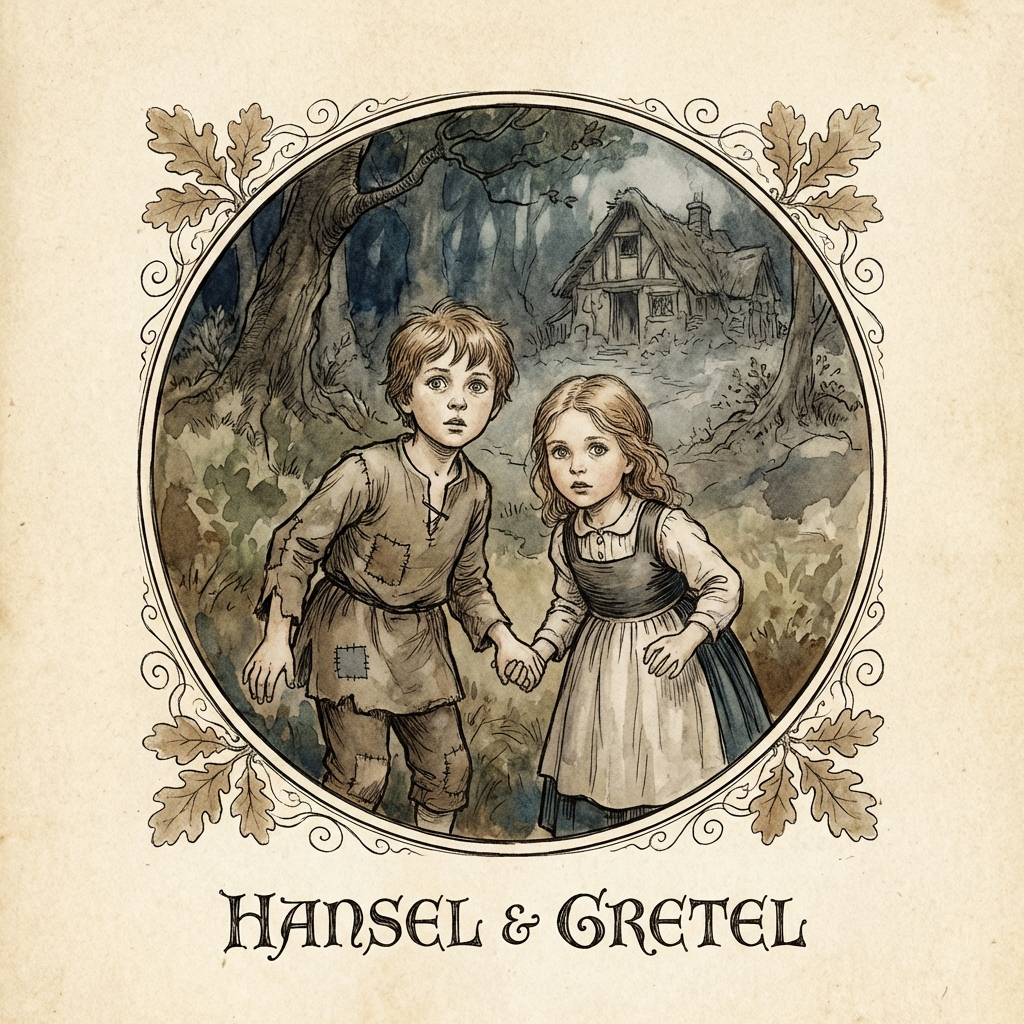
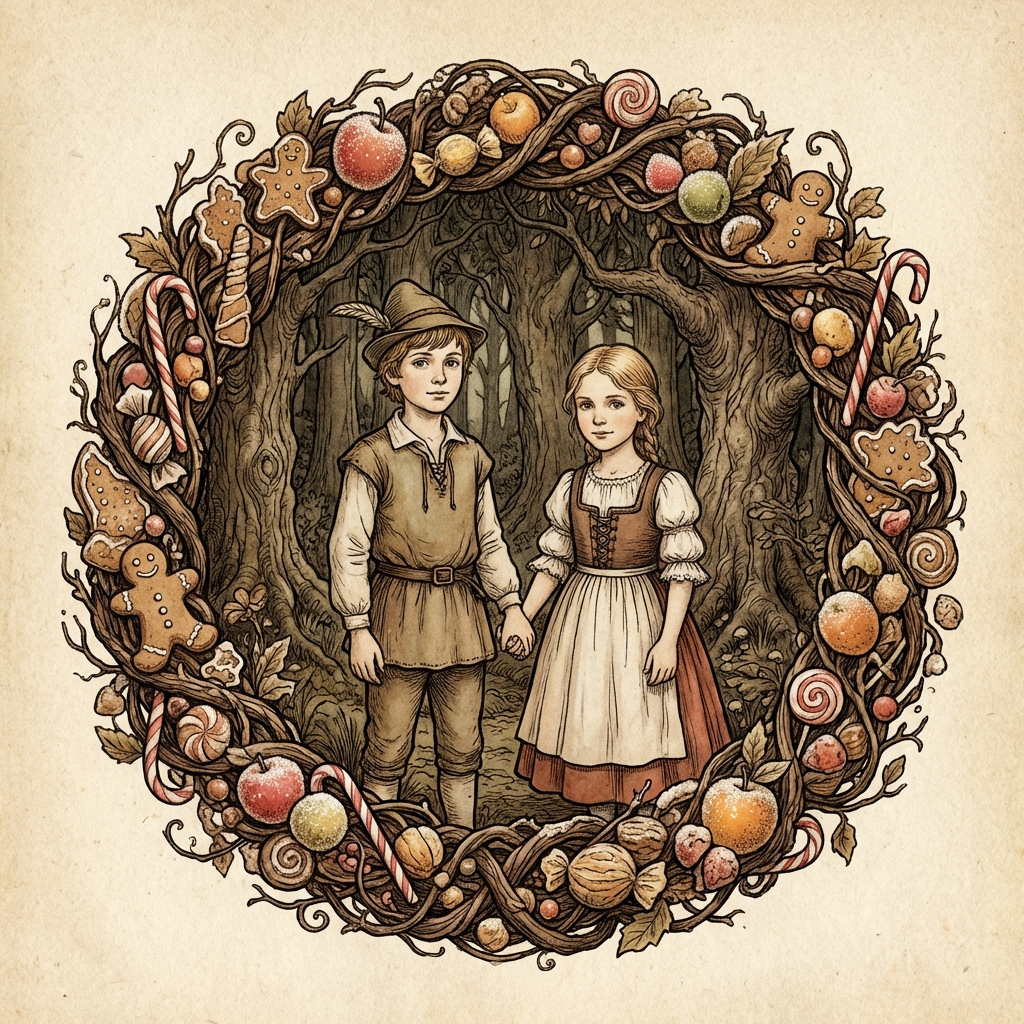
Bump version to 1.1.14 - Unified ornate illustrations for story characters

diff --git a/web/src/components/resources/storyteller/books-data.ts b/web/src/components/resources/storyteller/books-data.ts
@@ -154,8 +154,8 @@ export const BOOKS: Book[] = [
         description: 'La valiente historia del pequeño Pulgarcito, quien con su ingenio y unas botas mágicas salva a sus siete hermanos de un temible ogro.',
         level: 'Medio',
         age: '6+',
-        coverImage: '/images/storyteller/pulgarcito-clasico.png',
-        chipImage: '/images/storyteller/pulgarcito-clasico.png',
+        coverImage: '/images/storyteller/hansel-gretel-bruja.jpg',
+        chipImage: '/images/storyteller/character-pulgarcito.png',
         genre: 'Cuento de hadas',
         themeColor: 'from-emerald-500 to-teal-400',
         content: [
@@ -190,7 +190,7 @@ export const BOOKS: Book[] = [
         level: 'Medio',
         age: '6+',
         coverImage: '/images/storyteller/hansel-gretel-bruja.jpg',
-        chipImage: '/images/storyteller/hansel-gretel-bruja.jpg',
+        chipImage: '/images/storyteller/character-hansel-gretel.png',
         genre: 'Cuento de hadas',
         themeColor: 'from-amber-600 to-brown-700',
         content: [
